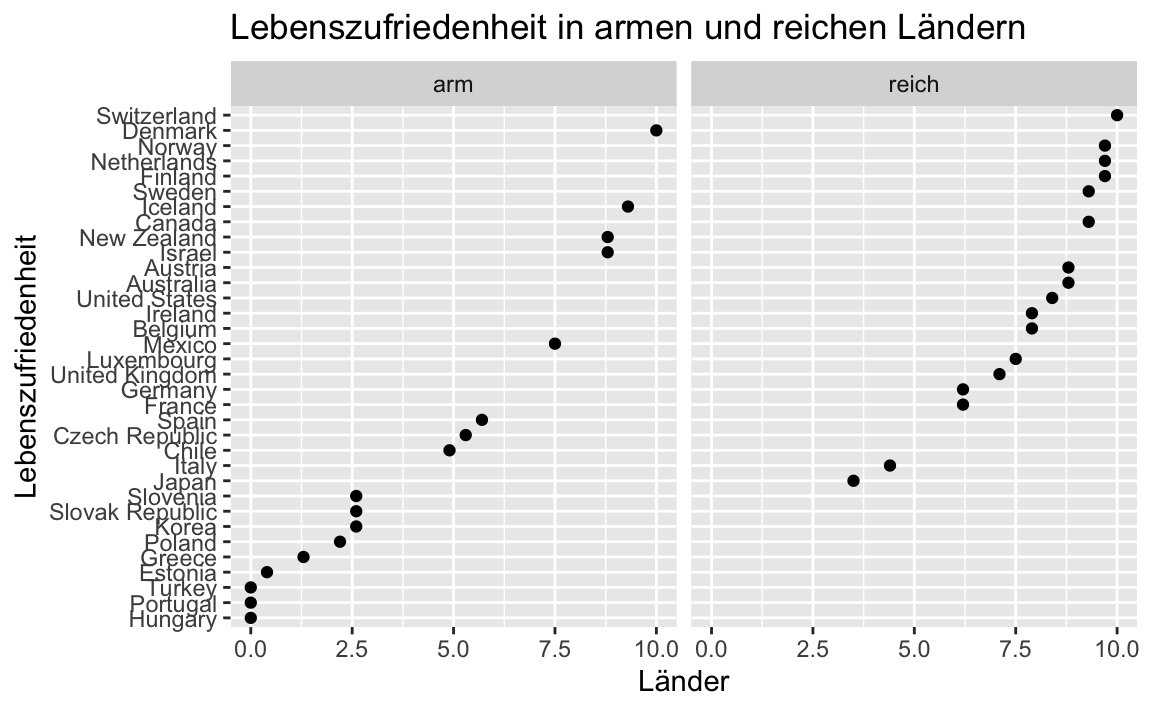
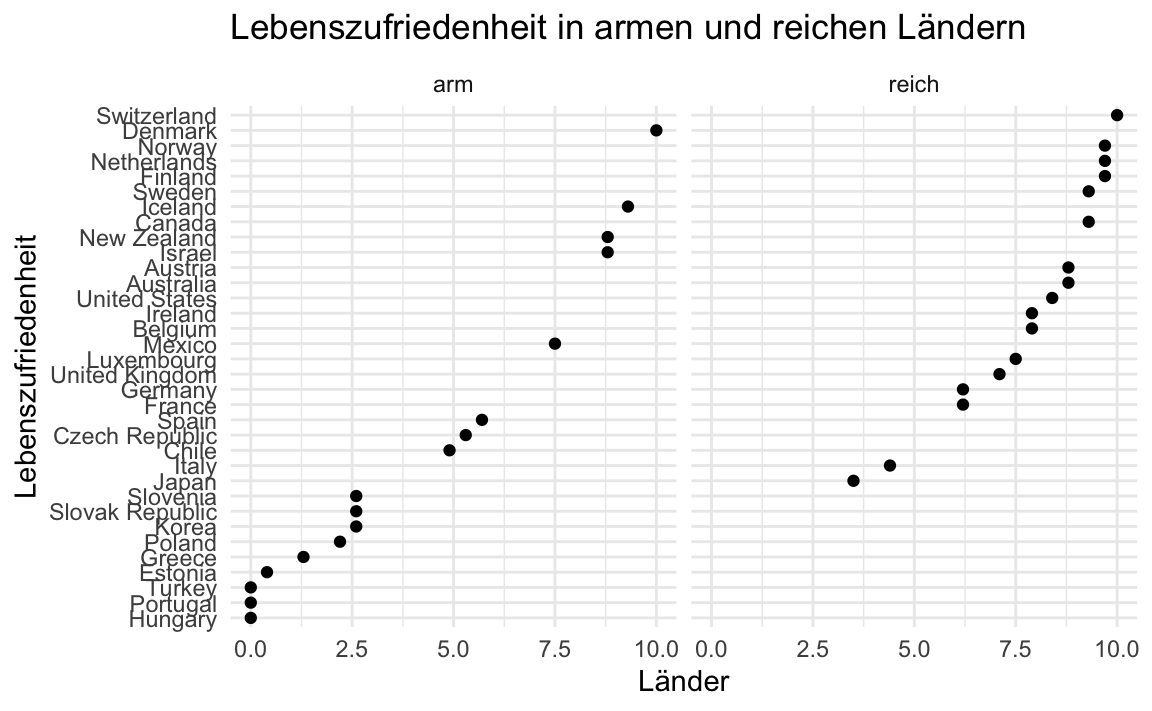
update

diff --git a/content/post/2021-02-11-explorative-datenanalyse-zum-datensatz-oecd-wellbeing/index.html b/content/post/2021-02-11-explorative-datenanalyse-zum-datensatz-oecd-wellbeing/index.html
@@ -446,7 +446,8 @@ oecd_short_reordered %&gt;%
   coord_flip() +
   labs(y = &quot;Länder&quot;,
        x = &quot;Lebenszufriedenheit&quot;,
-       title = &quot;Lebenszufriedenheit in armen und reichen Ländern &quot;)</code></pre>
+       title = &quot;Lebenszufriedenheit in armen und reichen Ländern &quot;) +
+  theme_minimal()</code></pre>
 <p><img src="{{< blogdown/postref >}}index_files/figure-html/unnamed-chunk-37-1.png" width="100%" style="display: block; margin: auto;" /></p>
 <div id="vertiefung-korrelation-pro-gruppe" class="section level3" number="9.2.1">
 <h3><span class="header-section-number">9.2.1</span> Vertiefung: Korrelation pro Gruppe</h3>
